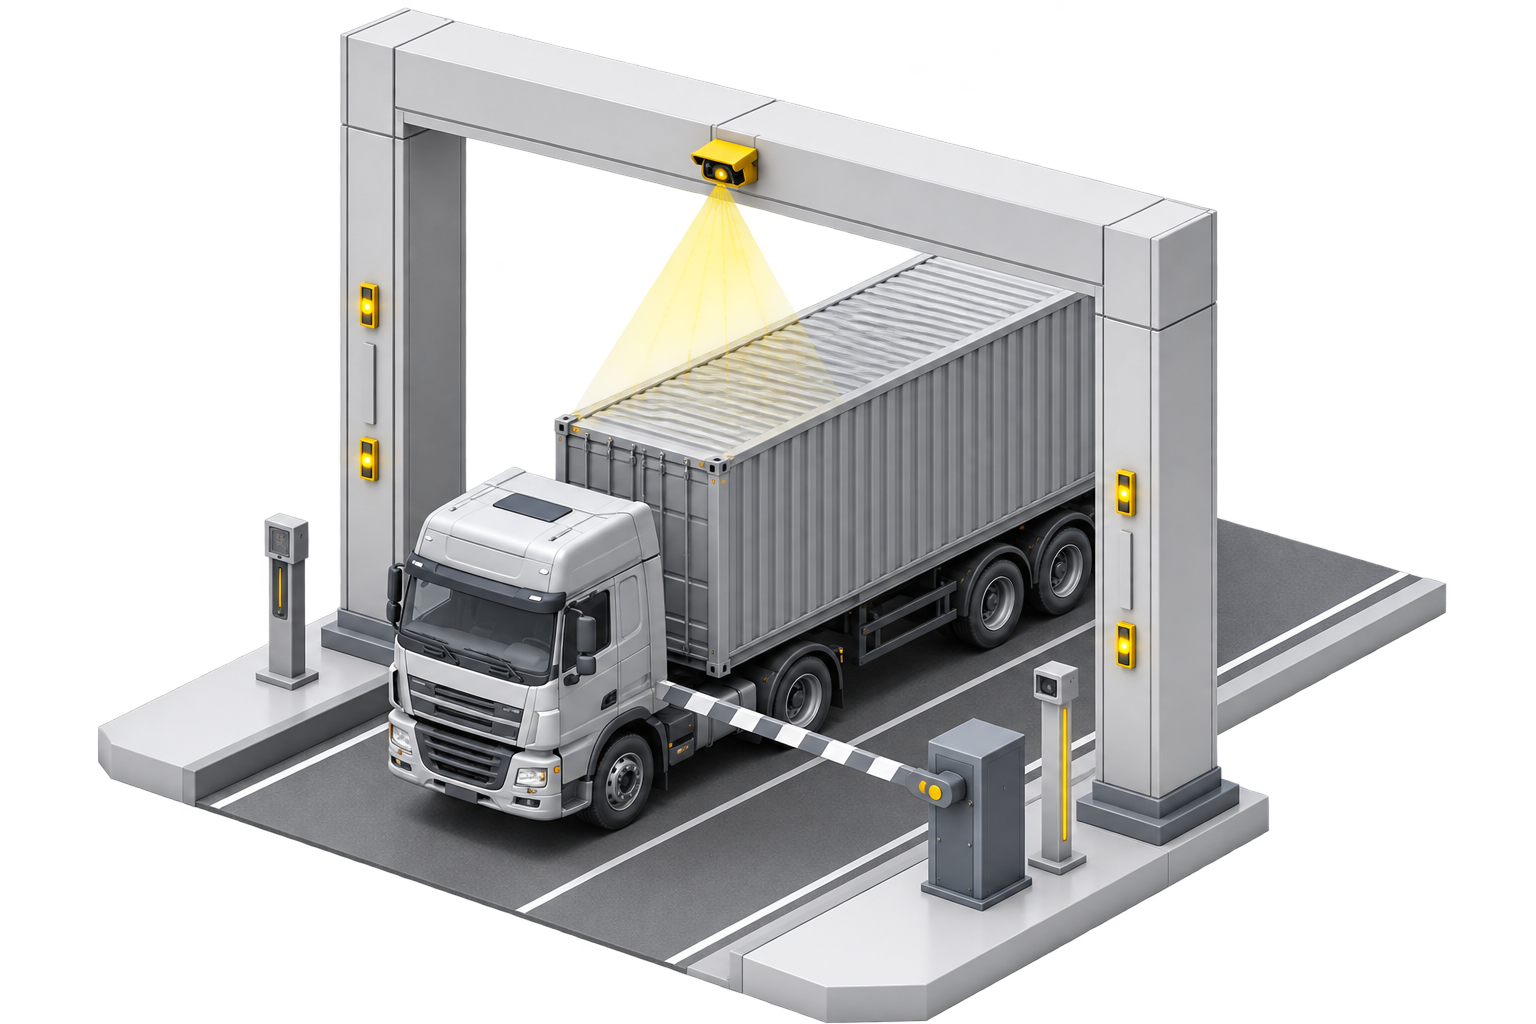
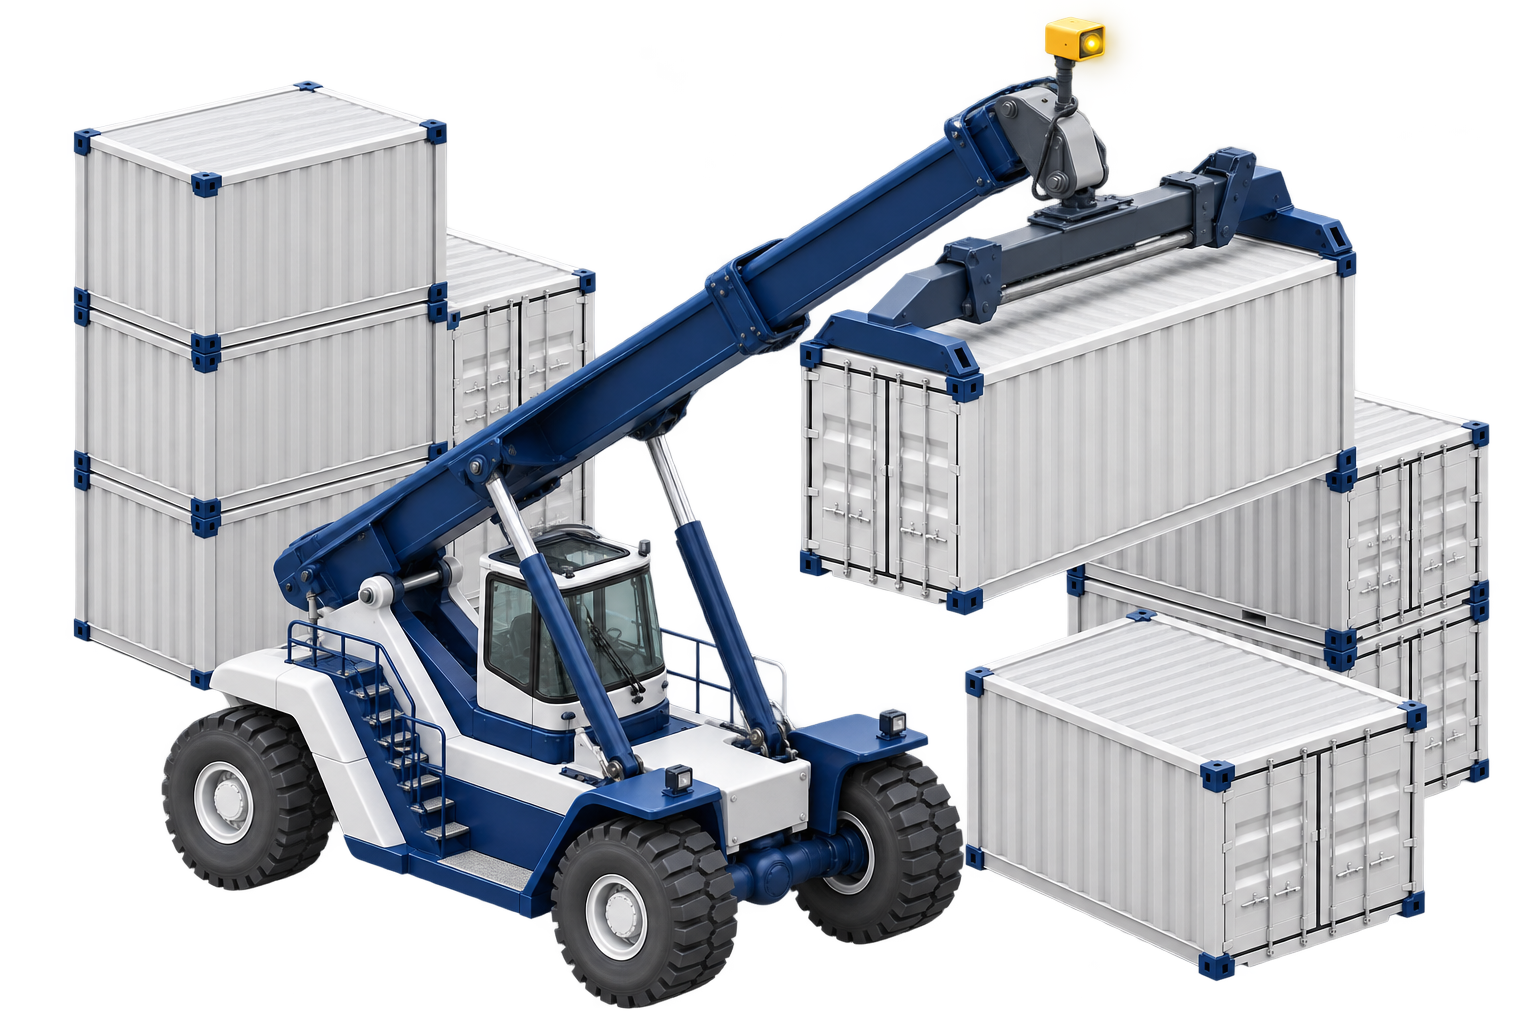
Add GateVision AI product card, update ContainerVision AI image
Adds a new "Prosper GateVision" card to the product grid, reusing the
gate/OCR scanning-gantry image that was originally the ContainerVision
image. Swaps in the new ContainerVision AI image (reach stacker
handling a container in a yard), replacing the gate scene there.

diff --git a/src/pages/HomepageConcept.jsx b/src/pages/HomepageConcept.jsx
@@ -10,6 +10,7 @@ import useDocumentTitle from '../hooks/useDocumentTitle'
 import logo from '../assets/logo-light.png'
 import wmsImg from '../assets/prosper wms.png'
 import containerVisionImg from '../assets/container vision ai.png'
+import gateVisionImg from '../assets/gate vision ai.png'
 import forkliftVisionImg from '../assets/forklift vision ai.png'
 import assetTrackingImg from '../assets/asset tracking.png'
 import as400Img from '../assets/as400.png'
@@ -70,6 +71,13 @@ const PRODUCTS = [
     img: wmsImg,
     desc: 'RFID-powered receiving, put-away, picking, packing and dispatch, with real-time inventory across every warehouse.',
     to: '/lp/wms',
+  },
+  {
+    name: 'GateVision',
+    tag: 'Gate & OCR',
+    img: gateVisionImg,
+    desc: 'AI cameras and OCR automate gate check-in, container scanning and access control — no manual logging.',
+    to: '/solutions/gate-yard-dock-vision-ai',
   },
   {
     name: 'ContainerVision',
